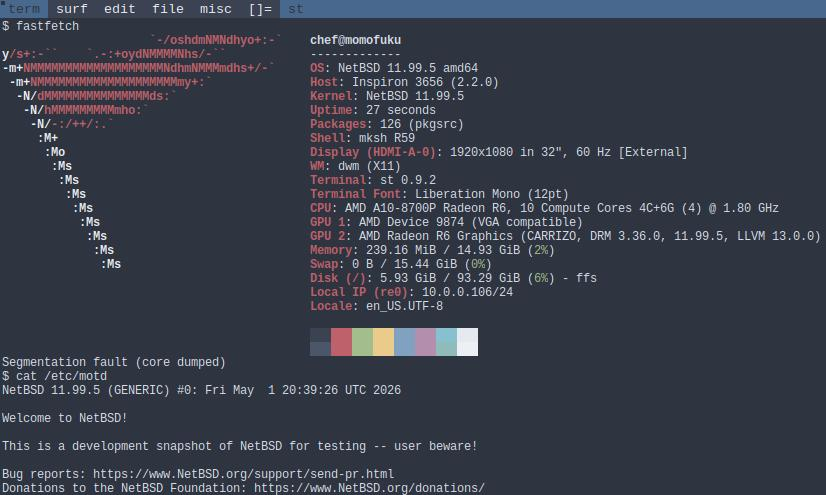
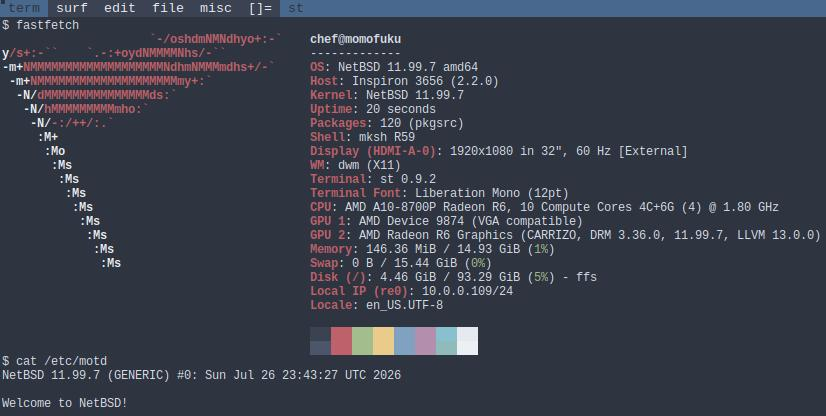
adds and tweaks

diff --git a/README.md b/README.md
@@ -1,4 +1,4 @@
-NetBSD 11.99.5  (GENERIC)
+NetBSD 11.99.7  (GENERIC)
 
 
 
